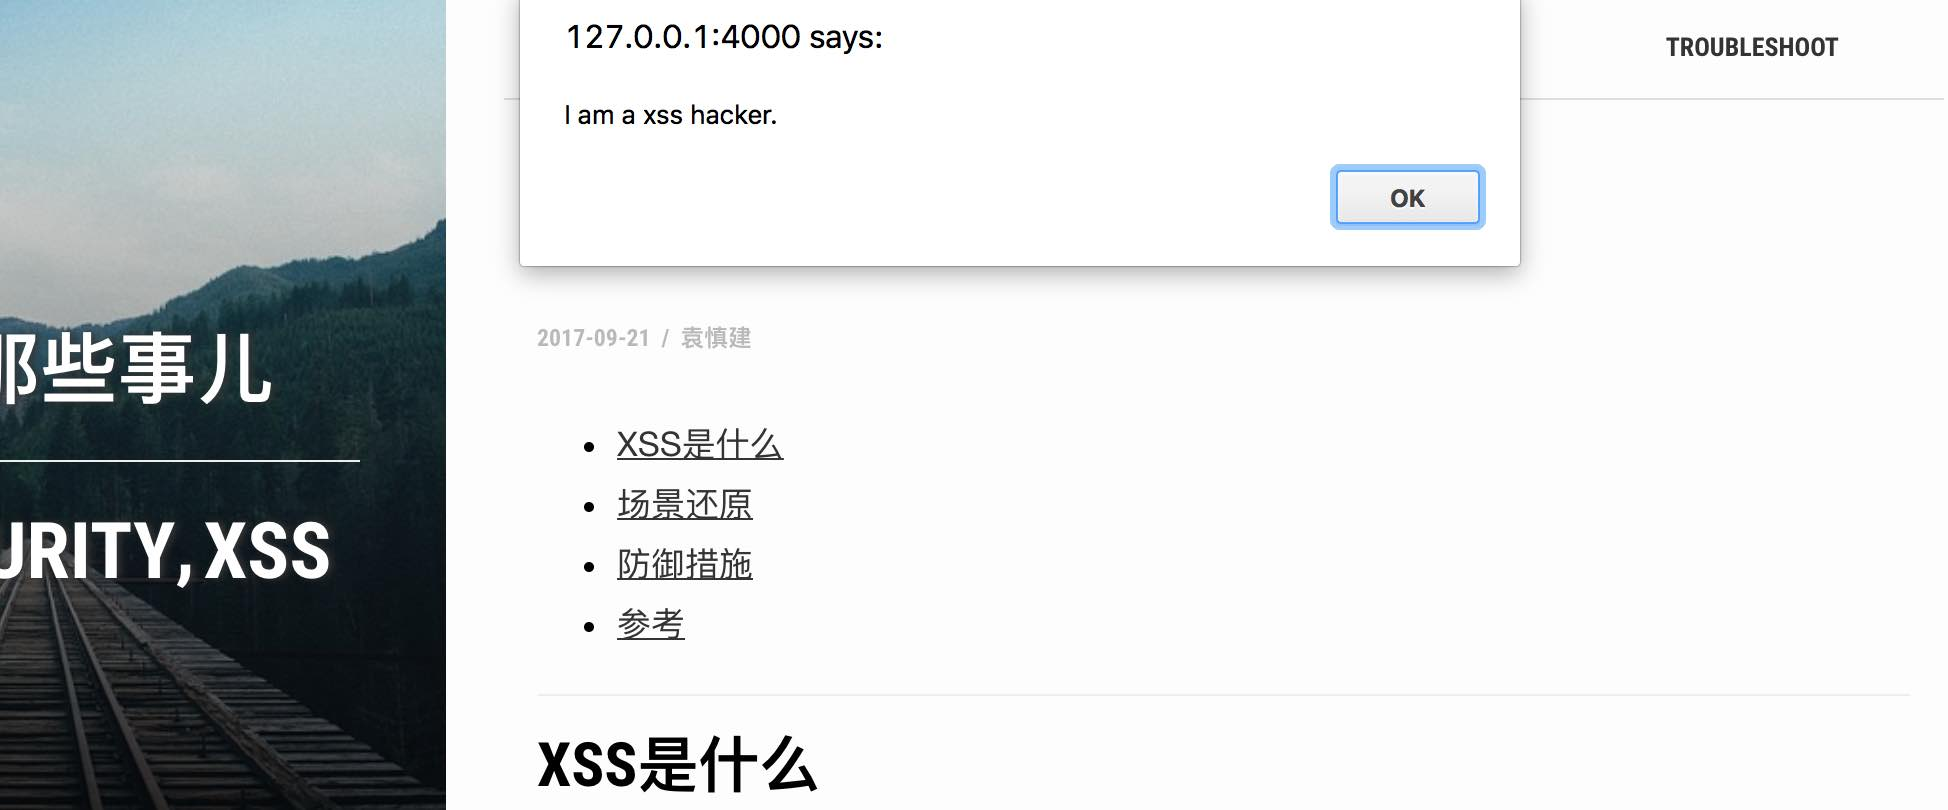
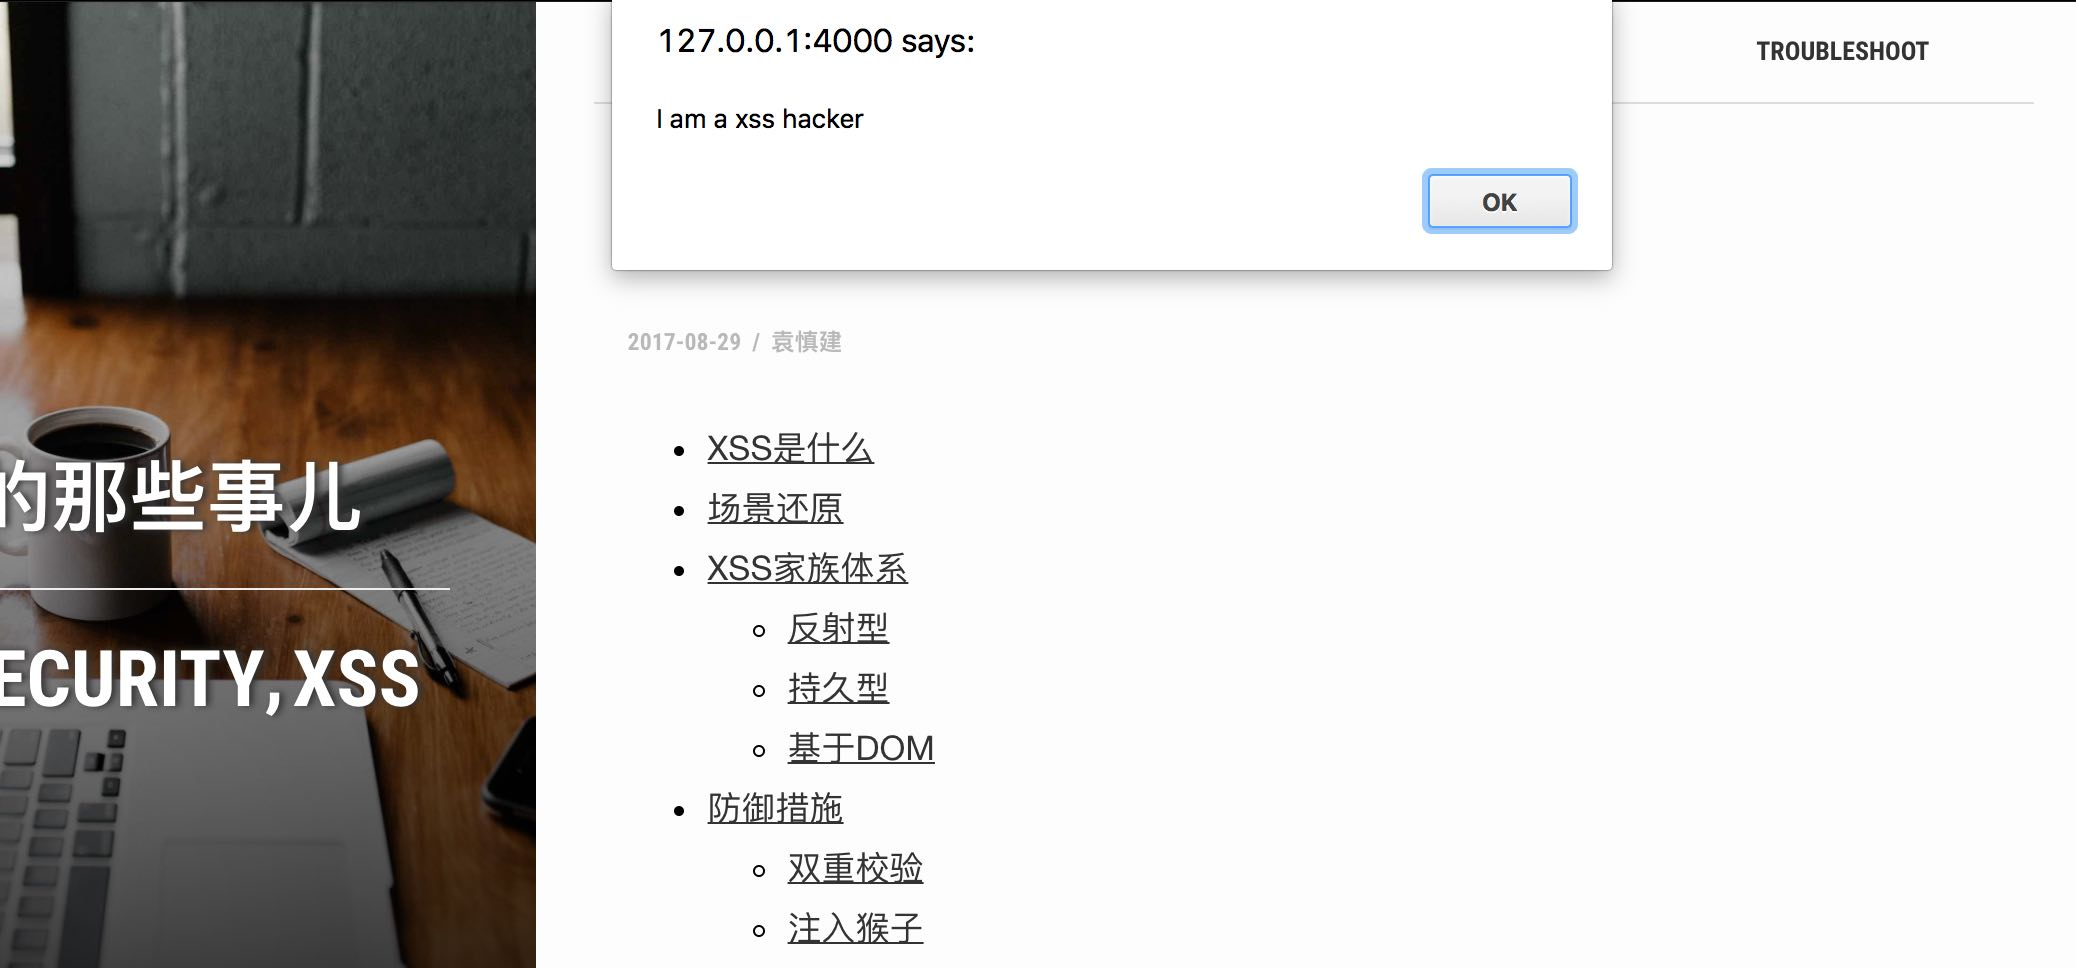
Update

Changed region(s): [[0.0, 0.0, 0.9856, 1.0]]

diff --git a/_includes/aside.html b/_includes/aside.html
@@ -1,7 +1,7 @@
 {% if page.bg %}
 <aside class="sidebar" role="note" style="background-image: url({{ site.url }}{{ site.img_path }}/{{ page.bg }})">
   {% else %}
-  <aside class="sidebar" role="note" style="background-image: url({{ site.url }}{{ site.img_path }}/rails.jpg)">
+  <aside class="sidebar" role="note" style="background-image: url({{ site.url }}{{ site.img_path }}/writing.jpg)">
     {% endif %}
 
     <div class="cover">
